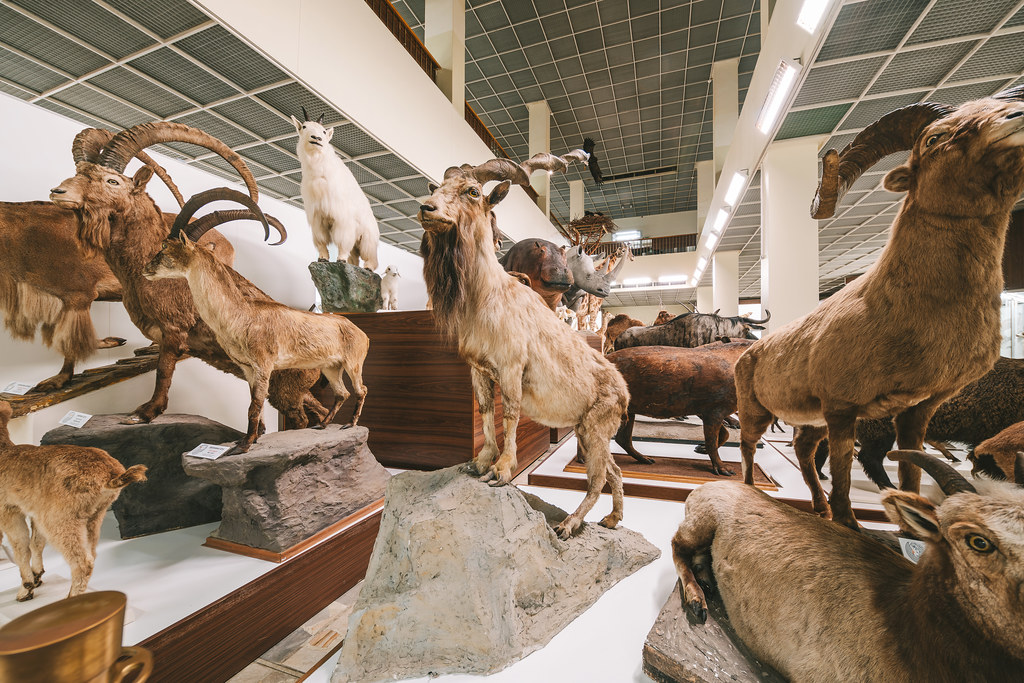
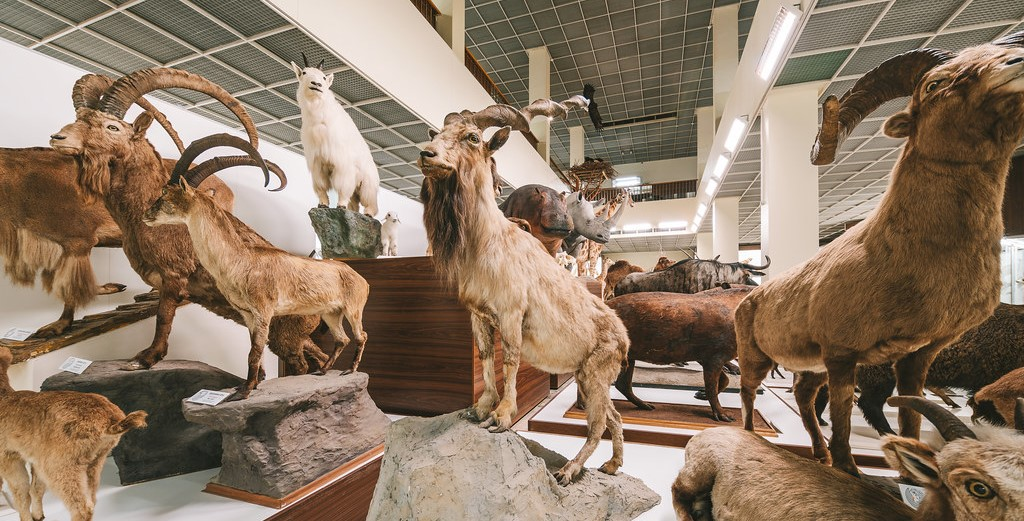
fixed sights layout

diff --git a/sightseeing.html b/sightseeing.html
@@ -37,145 +37,155 @@
             </div>
         </header>
 
+        <div id="sight-wrapper">
 
-
-        <div class="expandable-items" id="sightseeing-small-block">
-            <button class="expandable-item-header">
-                <div class="expandable-header-vertical">
-                    <div id="flex-1-item">
-                        <img class="event-image" src="img/sights/devils_museum.png">
+            <div class="expandable-items" id="sightseeing-small-block">
+                <button class="expandable-item-header">
+                    <div class="expandable-header-vertical">
+                        <div id="flex-1-item">
+                            <img class="sight-image" src="img/sights/devils_museum.png">
+                        </div>
+                        <div id="flex-1-item">
+                            <h1> Devil's Museum </h1>
+                            <h2> V. Putvinskio g. 64, Kaunas</h2>
+                        </div>
                     </div>
-                    <div id="flex-1-item">
-                        <h1> Devil's Museum </h1>
-                        <h2> V. Putvinskio g. 64, Kaunas</h2>
-                    </div>
+                </button>
+                <div class="expanded-event-container">
+                    <p class="expanded-event-text">
+                        The Devils’ Museum, which is included in the list of the most unique museums worldwide,
+                        stores about 3000 horned exhibits from all over the world: pieces of visual arts and crafts,
+                        souvenirs,
+                        masks.
+                        <br>
+                        It is an opportunity to take a closer look at the mysterious mythological creature and
+                        different
+                        forms of its depiction in as many as 70 countries of the world.
+                        <br>
+                        The collection was started by
+                        Antanas
+                        Žmuidzinavičius, a famous Lithuanian artist, and there has been a nice tradition that every
+                        visitor may bring a devil as a gift to the museum.
+                    </p>
                 </div>
-            </button>
-            <div class="expanded-event-container">
-                <p class="expanded-event-text">
-                    The Devils’ Museum, which is included in the list of the most unique museums worldwide,
-                    stores about 3000 horned exhibits from all over the world: pieces of visual arts and crafts,
-                    souvenirs,
-                    masks.
-                    <br>
-                    It is an opportunity to take a closer look at the mysterious mythological creature and
-                    different
-                    forms of its depiction in as many as 70 countries of the world.
-                    <br>
-                    The collection was started by
-                    Antanas
-                    Žmuidzinavičius, a famous Lithuanian artist, and there has been a nice tradition that every
-                    visitor may bring a devil as a gift to the museum.
-                </p>
             </div>
-        </div>
 
-        <div class="expandable-items" id="sightseeing-small-block">
-            <button class="expandable-item-header">
-                <div class="expandable-header-vertical">
-                    <div id="flex-1-item">
-                        <img class="event-image" src="img/sights/folk_museum.jpg">
+            <div class="expandable-items" id="sightseeing-small-block">
+                <button class="expandable-item-header">
+                    <div class="expandable-header-vertical">
+                        <div id="flex-1-item">
+                            <img class="sight-image" src="img/sights/folk_museum.jpg">
+                        </div>
+                        <div id="flex-1-item">
+                            <h1> KAUNAS CITY MUSEUM – FOLK MUSIC BRANCH </h1>
+                            <h2> L. Zamenhofo g. 12/Kurpių g. 12, Kaunas</h2>
+                        </div>
                     </div>
-                    <div id="flex-1-item">
-                        <h1> KAUNAS CITY MUSEUM – FOLK MUSIC BRANCH </h1>
-                        <h2> L. Zamenhofo g. 12/Kurpių g. 12, Kaunas</h2>
-                    </div>
+                </button>
+                <div class="expanded-event-container">
+                    <p class="expanded-event-text">
+                        The first and only museum in Lithuania dedicated to folk music culture. It contains over 7000
+                        exhibits, from Lithuanian and international musical instruments to audio recordings,
+                        photographs,
+                        letters and posters.
+                        <br>
+                        In the interactive and modern exposition, you will be able to learn how kanklės
+                        (chordophone) are made, to sing a sutartinė (Lithuanian multipart song), play some instruments
+                        or
+                        hear some folk music performed by contemporary bands.
+                    </p>
                 </div>
-            </button>
-            <div class="expanded-event-container">
-                <p class="expanded-event-text">
-                    The first and only museum in Lithuania dedicated to folk music culture. It contains over 7000
-                    exhibits, from Lithuanian and international musical instruments to audio recordings,
-                    photographs,
-                    letters and posters.
-                    <br>
-                    In the interactive and modern exposition, you will be able to learn how kanklės
-                    (chordophone) are made, to sing a sutartinė (Lithuanian multipart song), play some instruments
-                    or
-                    hear some folk music performed by contemporary bands.
-                </p>
             </div>
-        </div>
 
-        <div class="expandable-items" id="sightseeing-small-block">
-            <button class="expandable-item-header">
-                <div class="expandable-header-vertical">
-                    <div id="flex-1-item">
-                        <img class="event-image" src="img/sights/picture-gallery.jpg">
+            <div class="expandable-items" id="sightseeing-small-block">
+                <button class="expandable-item-header">
+                    <div class="expandable-header-vertical">
+                        <div id="flex-1-item">
+                            <img class="sight-image" src="img/sights/picture-gallery.jpg">
+                        </div>
+                        <div id="flex-1-item">
+                            <h1> Kaunas Picture Gallery </h1>
+                            <h2> K. Donelaičio g. 16, Kaunas</h2>
+                        </div>
                     </div>
-                    <div id="flex-1-item">
-                        <h1> Kaunas Picture Gallery </h1>
-                        <h2> K. Donelaičio g. 16, Kaunas</h2>
-                    </div>
+                </button>
+                <div class="expanded-event-container">
+                    <p class="expanded-event-text">
+                        Gallery was opened in 1979 by architectures Liucija Gelgaudienė and Jonas Navakas. It was
+                        dedicated
+                        to the famous collector M. Žilinskas who bestowed a collection to the City of Kaunas. However,
+                        it
+                        appeared that the whole collection will not fit in the gallery, therefore, they started to built
+                        another building.
+                        <br>
+                        These days, there are a lot of exhibitions by Lithuanian and foreign country artists. They
+                        exhibit a
+                        lot of pieces of modern Lithuanian and foreign art. Likewise, there is a presentation by
+                        professor
+                        Algimantas Miškinis who bestowed his art and iconography collection "Lithuanian and Eastern art
+                        works collection". Also, there is a Jurgis Mačiūnas "Fluxus" office, where visitors can get
+                        acquainted with Ay-o installation, "Black hole" and Takaka Saito installation "My my theatre".
+
+                    </p>
                 </div>
-            </button>
-            <div class="expanded-event-container">
-                <p class="expanded-event-text">
-                    Gallery was opened in 1979 by architectures Liucija Gelgaudienė and Jonas Navakas. It was dedicated
-                    to the famous collector M. Žilinskas who bestowed a collection to the City of Kaunas. However, it
-                    appeared that the whole collection will not fit in the gallery, therefore, they started to built
-                    another building.
-                    <br>
-                    These days, there are a lot of exhibitions by Lithuanian and foreign country artists. They exhibit a
-                    lot of pieces of modern Lithuanian and foreign art. Likewise, there is a presentation by professor
-                    Algimantas Miškinis who bestowed his art and iconography collection "Lithuanian and Eastern art
-                    works collection". Also, there is a Jurgis Mačiūnas "Fluxus" office, where visitors can get
-                    acquainted with Ay-o installation, "Black hole" and Takaka Saito installation "My my theatre".
-
-                </p>
             </div>
-        </div>
 
-        <div class="expandable-items" id="sightseeing-small-block">
-            <button class="expandable-item-header">
-                <div class="expandable-header-vertical">
-                    <div id="flex-1-item">
-                        <img class="event-image" src="img/sights/zoo-museum.jpg">
+            <div class="expandable-items" id="sightseeing-small-block">
+                <button class="expandable-item-header">
+                    <div class="expandable-header-vertical">
+                        <div id="flex-1-item">
+                            <img class="sight-image" src="img/sights/zoo-museum.jpg">
+                        </div>
+                        <div id="flex-1-item">
+                            <h1> KAUNAS TADAS IVANAUSKAS MUSEUM OF ZOOLOGY </h1>
+                            <h2> Laisvės al. 106, Kaunas</h2>
+                        </div>
                     </div>
-                    <div id="flex-1-item">
-                        <h1> KAUNAS TADAS IVANAUSKAS MUSEUM OF ZOOLOGY </h1>
-                        <h2> Laisvės al. 106, Kaunas</h2>
-                    </div>
+                </button>
+                <div class="expanded-event-container">
+                    <p class="expanded-event-text">
+                        Tadas Ivanauskas Kaunas Zoological Museum - one of the oldest museums in the country and the
+                        only
+                        zoological museum in the Baltic States. The whole history of the museum is closely associated
+                        with
+                        the development of natural science Lithuania and prof. Tadas Ivanauskas.
+                    </p>
                 </div>
-            </button>
-            <div class="expanded-event-container">
-                <p class="expanded-event-text">
-                    Tadas Ivanauskas Kaunas Zoological Museum - one of the oldest museums in the country and the only
-                    zoological museum in the Baltic States. The whole history of the museum is closely associated with
-                    the development of natural science Lithuania and prof. Tadas Ivanauskas.
-                </p>
             </div>
-        </div>
 
-        <div class="expandable-items" id="sightseeing-small-block">
-            <button class="expandable-item-header">
-                <div class="expandable-header-vertical">
-                    <div id="flex-1-item">
-                        <img class="event-image" src="img/sights/open-air-museum.jpg">
+            <div class="expandable-items" id="sightseeing-small-block">
+                <button class="expandable-item-header">
+                    <div class="expandable-header-vertical">
+                        <div id="flex-1-item">
+                            <img class="sight-image" src="img/sights/open-air-museum.jpg">
+                        </div>
+                        <div id="flex-1-item">
+                            <h1> LITHUANIAN OPEN AIR FOLK MUSEUM </h1>
+                            <h2> L.Lekavičiaus g. 2, Rumšiškės, Kaišiadorių r.</h2>
+                        </div>
                     </div>
-                    <div id="flex-1-item">
-                        <h1> LITHUANIAN OPEN AIR FOLK MUSEUM </h1>
-                        <h2> L.Lekavičiaus g. 2, Rumšiškės, Kaišiadorių r.</h2>
-                    </div>
+                </button>
+                <div class="expanded-event-container">
+                    <p class="expanded-event-text">
+                        The Open-Air Museum of Lithuania is one of the largest ethnographic open-air museums in Europe
+                        that
+                        stretches across the area of 195 ha. The museum was established on the picturesque shores of
+                        Kaunas
+                        Lagoon in Rumšiškės in 1966. The exhibitions at the museum are intended to introduce the
+                        ethnographic regions of Lithuania, i.e. Dzūkija (Dainava), Aukštaitija (Highlands), Suvalkija
+                        (Sudovia), Žemaitija (Samogitia) and Lithuania Minor, as they looked at the end of the 18th
+                        century
+                        and the first half of the 20th century.
+                        <br>
+                        The houses representing each of the regions stand in their natural environment and have the
+                        interior
+                        and exterior of the respective period. Exhibitions of household appliances, crafting, trading,
+                        agricultural machinery and ethnobotany are presented inside the buildings.
+                    </p>
                 </div>
-            </button>
-            <div class="expanded-event-container">
-                <p class="expanded-event-text">
-                    The Open-Air Museum of Lithuania is one of the largest ethnographic open-air museums in Europe that
-                    stretches across the area of 195 ha. The museum was established on the picturesque shores of Kaunas
-                    Lagoon in Rumšiškės in 1966. The exhibitions at the museum are intended to introduce the
-                    ethnographic regions of Lithuania, i.e. Dzūkija (Dainava), Aukštaitija (Highlands), Suvalkija
-                    (Sudovia), Žemaitija (Samogitia) and Lithuania Minor, as they looked at the end of the 18th century
-                    and the first half of the 20th century.
-                    <br>
-                    The houses representing each of the regions stand in their natural environment and have the interior
-                    and exterior of the respective period. Exhibitions of household appliances, crafting, trading,
-                    agricultural machinery and ethnobotany are presented inside the buildings.
-                </p>
             </div>
+
         </div>
-
-
 
     </div>
 

diff --git a/css/style.css b/css/style.css
@@ -53,7 +53,8 @@ h2 {
     padding-right: 10px;
     padding-left: 10px;
 
-    flex: 1 1 auto; /*grow vertically*/
+    flex: 1 1 auto;
+    /*grow vertically*/
 }
 
 /* Header */
@@ -397,11 +398,9 @@ table {
 .expandable-header-vertical {
     flex: 1;
     text-align: center;
-    margin: 0;
-    min-width: 0;
-    max-height: 30%;
     flex-direction: column;
     display: flex;
+    min-width: 0;
 }
 
 #event-date {
@@ -455,10 +454,11 @@ table {
 /**** Sightseeing page ****/
 
 #sightseeing-small-block {
-    width: 50%;
     float: left;
     overflow: visible;
     padding: auto;
+    flex: 1;
+    flex-basis: 50%;
 }
 
 #sightseeing-small-block p {
@@ -467,6 +467,17 @@ table {
 
 #flex-1-item {
     flex: 1;
+}
+
+.sight-image {
+    width: 100%;
+    height: 100%;
+    object-fit: contain;
+}
+
+#sight-wrapper {
+    display: flex;
+    flex-wrap: wrap;
 }
 
 /**** Sports page ****/
